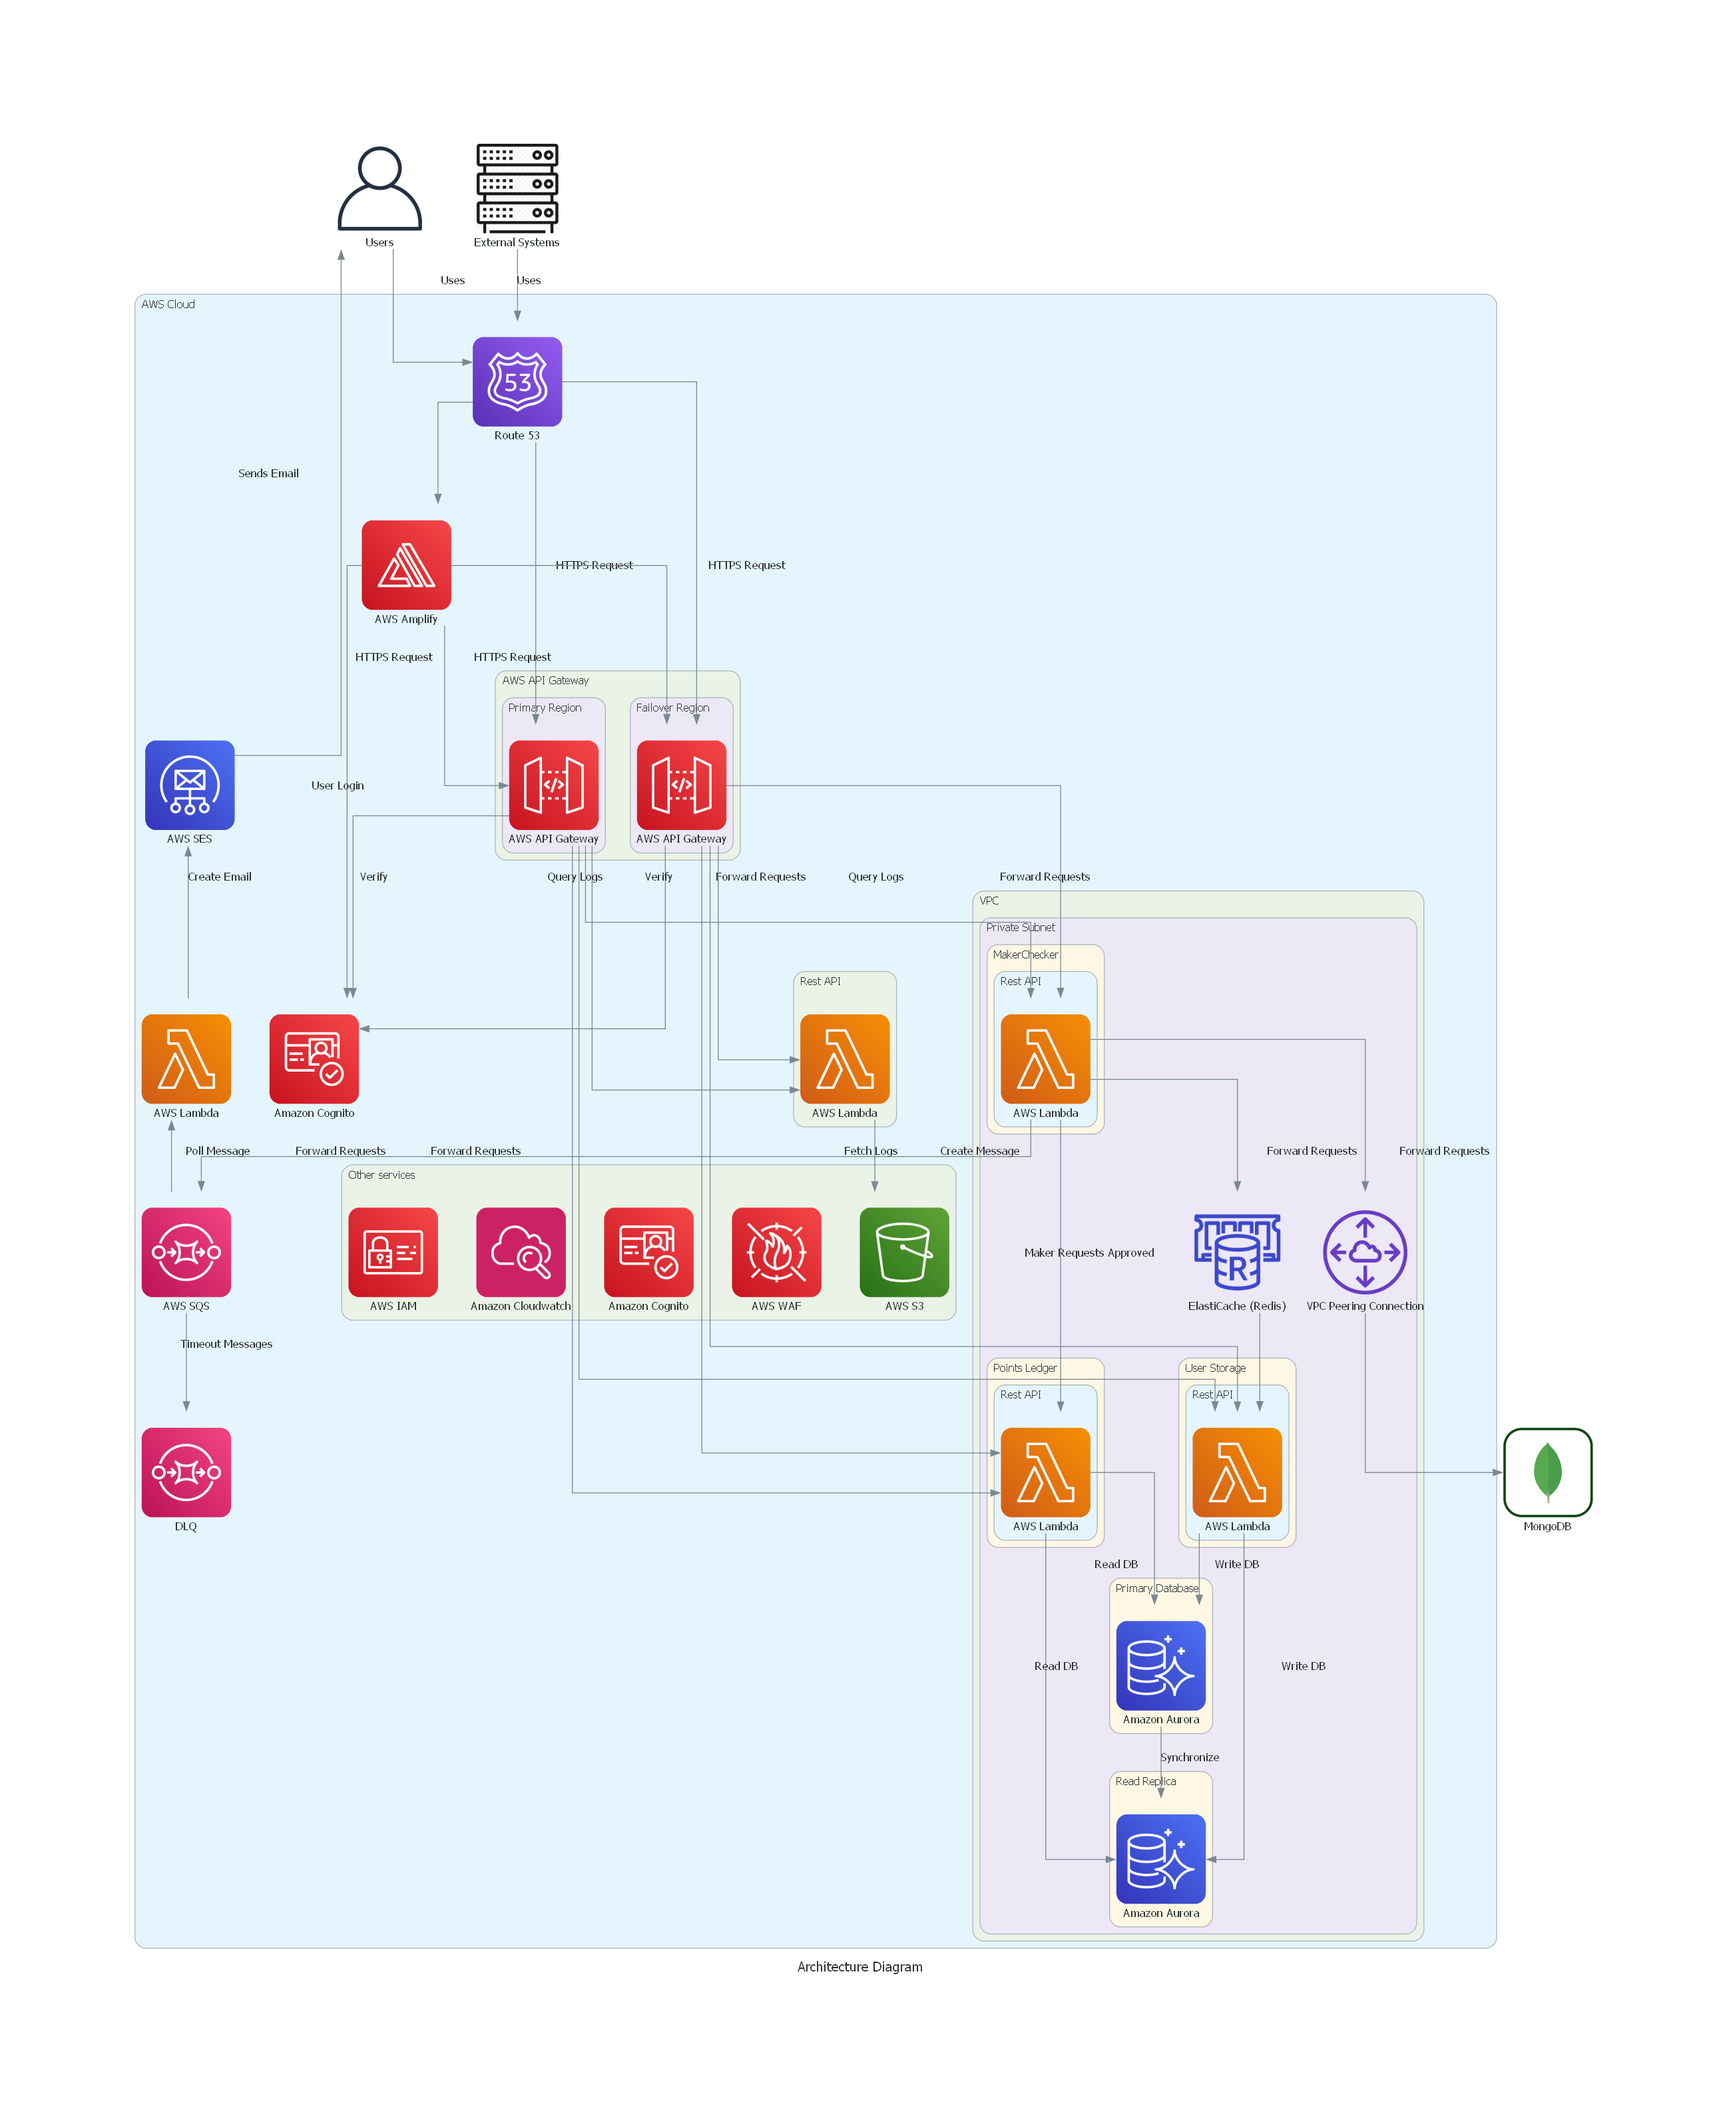
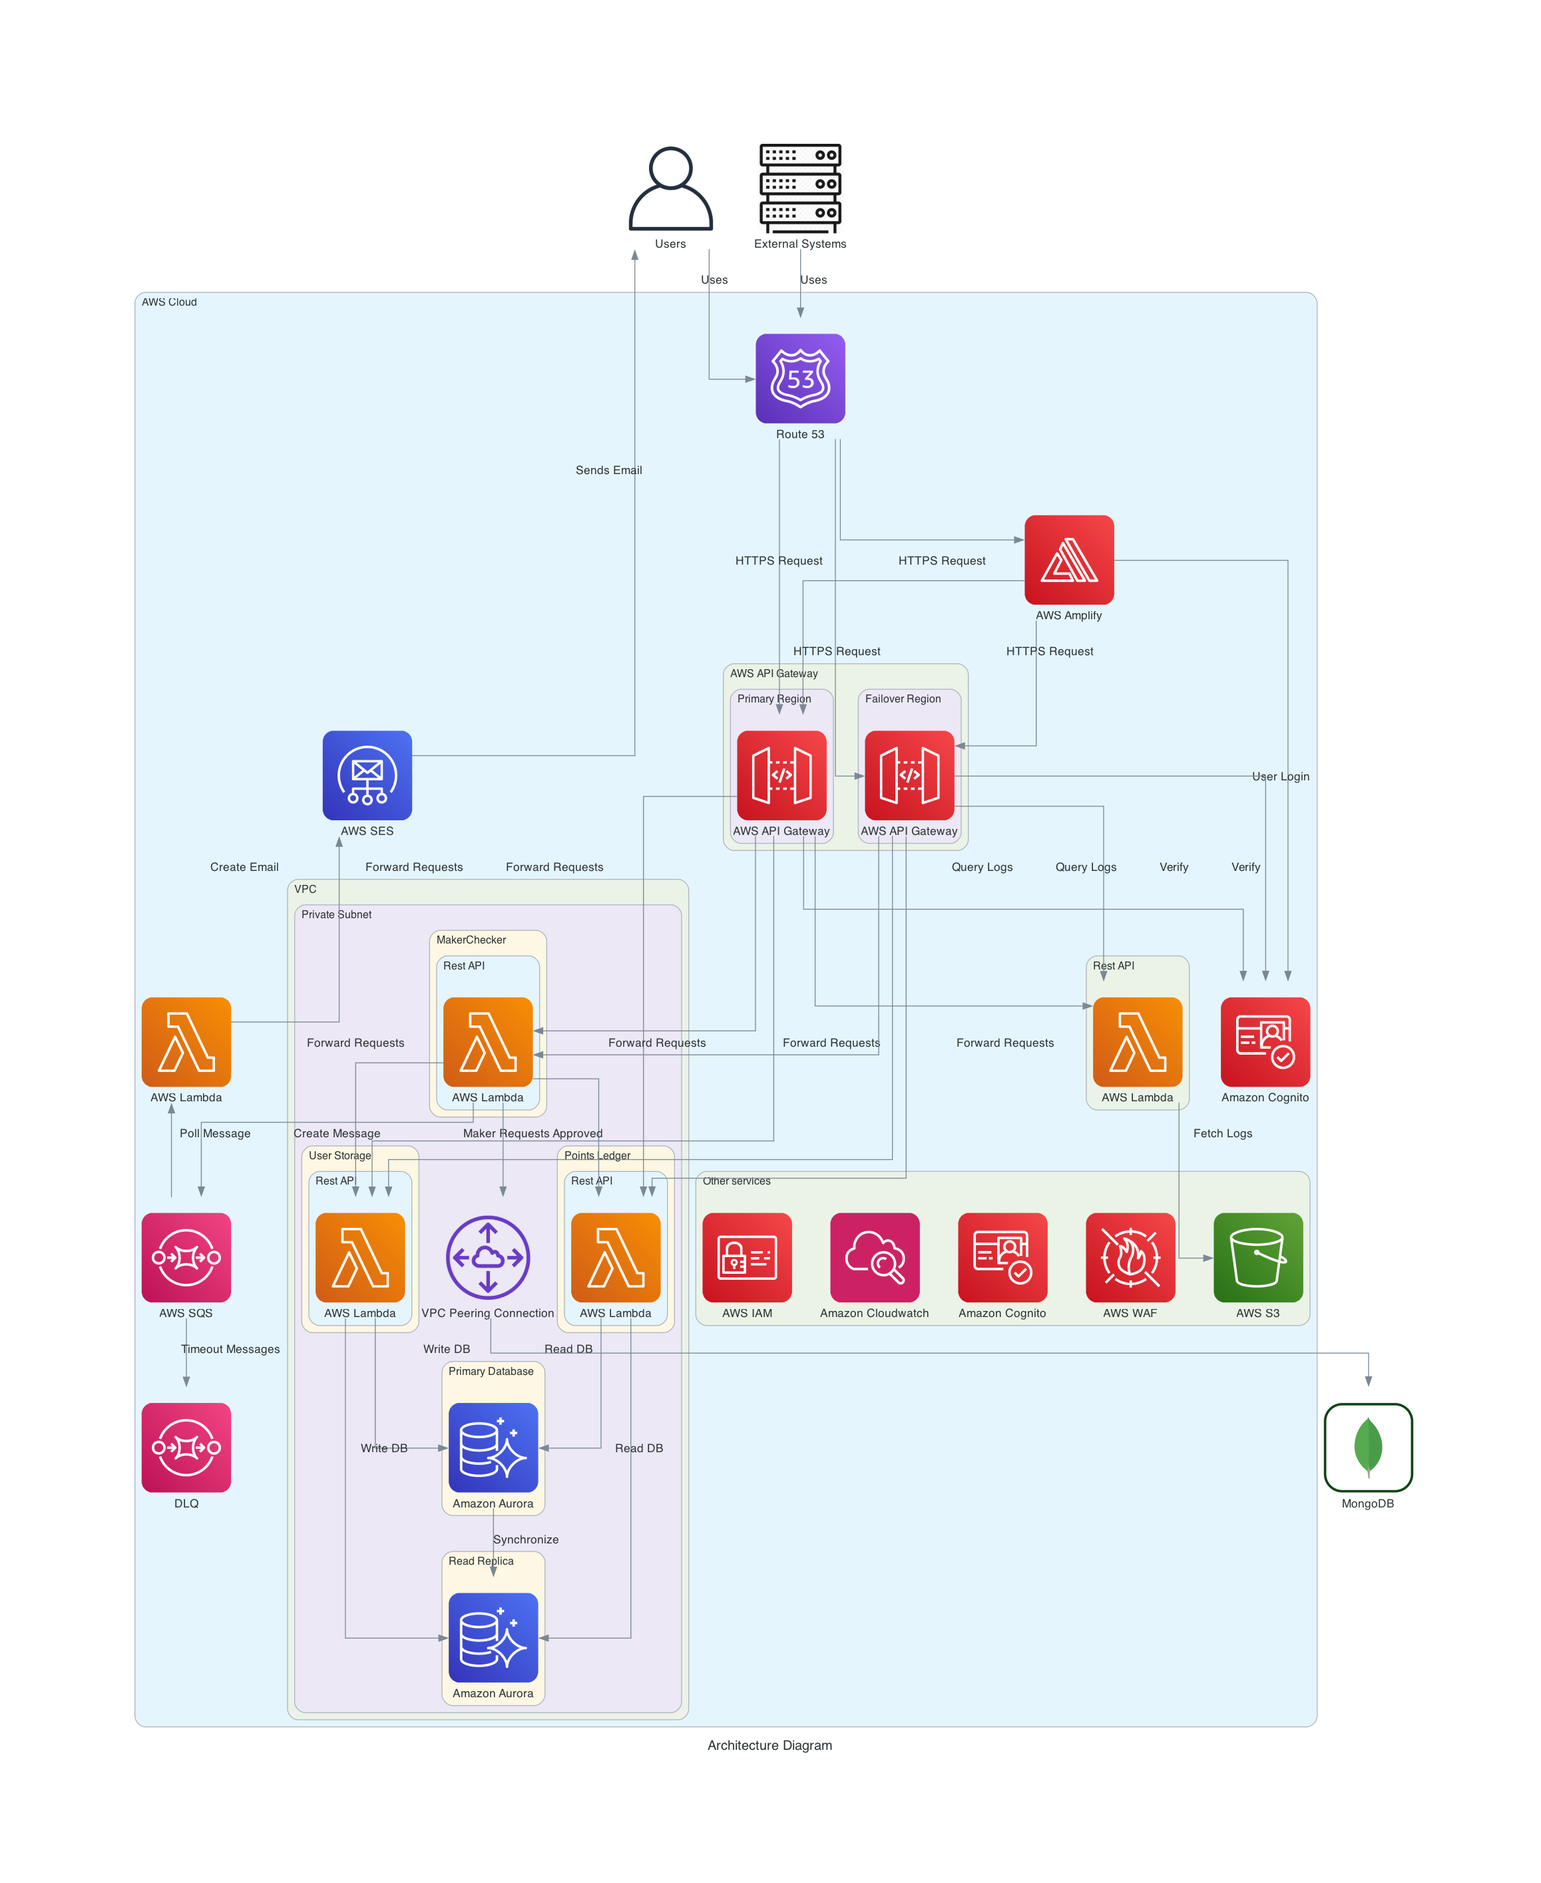
removed elasticache

diff --git a/dg.py b/dg.py
@@ -70,13 +70,12 @@ with Diagram("Architecture Diagram", show=False, direction="TB"):
             
                 pri_DB >> Edge(label = "Synchronize") >> rr
                 vpcpc = VPCPeering("VPC Peering Connection")
-                ecr = ElasticacheForRedis("ElastiCache (Redis)")
 
         g1 >> Edge(label = "Forward Requests") >> [user_storage,points_ledger,maker_checker]
         g2 >> Edge(label = "Forward Requests") >> [user_storage,points_ledger,maker_checker]
         [g1,g2] >> Edge(label = "Query Logs") >> logs >> Edge(label = "Fetch Logs") >> s3
 
-        maker_checker >> ecr >> user_storage
+        maker_checker >> user_storage
         maker_checker >> Edge(label = "Maker Requests Approved") >> points_ledger
         maker_checker >> vpcpc >> mongodb
 
